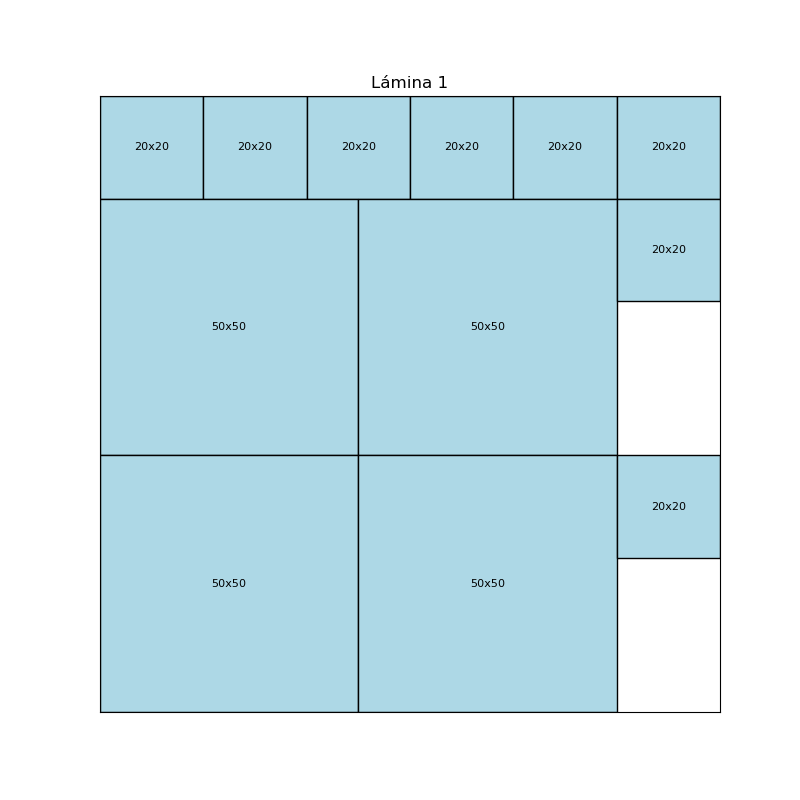
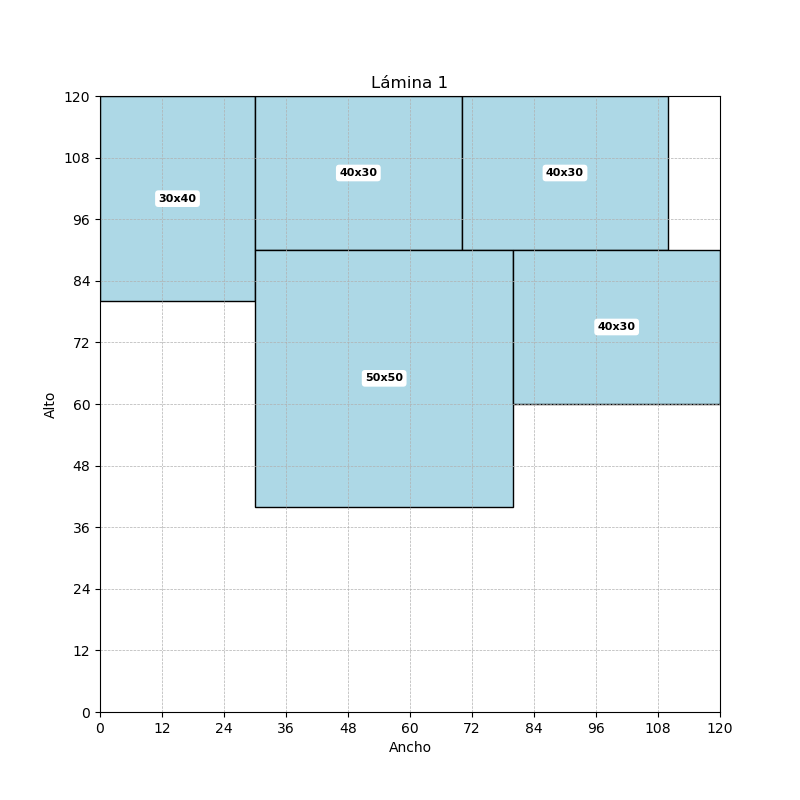
funcion cambiada a matriz

diff --git a/mine/versions/v2/Subject.py b/mine/versions/v2/Subject.py
@@ -3,7 +3,6 @@ import os
 import matplotlib.pyplot as plt
 import matplotlib.patches as patches
 import shutil
-import numpy as np
 
 class Subject:
     def __init__(self, plate_width, plate_height, pieces):
@@ -16,50 +15,44 @@ class Subject:
     def set_pieces(self, pieces):
         self.pieces = pieces
 
-    
-
     def place_pieces(self):
-        """Coloca las piezas en las láminas usando una matriz de ocupación de 1 y 0."""
-        self.plates_used = []  # Lista de láminas
-        plate_matrix = np.zeros((self.plate_height, self.plate_width), dtype=int)  # Matriz de ocupación de la primera lámina
-        current_plate = []  # Lista de piezas en la lámina actual
+        """
+        Coloca las piezas en el orden que aparecen, sin solapamientos.
+        """
+        self.plates_used = [[]]  # Primera lámina
+
+        x_actual = 0
+        y_actual = 0
+        altura_fila = 0
 
         for piece in self.pieces:
-            placed = False  # Bandera para verificar si la pieza fue colocada
+            pw, ph = piece.width, piece.height
 
-            # Buscar la primera posición libre donde quepa la pieza
-            for y in range(self.plate_height - piece.height + 1):
-                for x in range(self.plate_width - piece.width + 1):
-                    # Verificar si la pieza cabe en este espacio sin solaparse
-                    if np.all(plate_matrix[y:y + piece.height, x:x + piece.width] == 0):
-                        # Colocar la pieza en la lámina
-                        piece.x, piece.y = x, y
-                        piece.plate = len(self.plates_used) + 1  # Índice de la lámina
-                        current_plate.append(piece)
+            # Si la pieza no cabe en X, mover a la siguiente fila
+            if x_actual + pw > self.plate_width:
+                x_actual = 0
+                y_actual += altura_fila  # Mover hacia abajo
+                altura_fila = 0  # Reset de altura de fila
 
-                        # Marcar el espacio ocupado en la matriz
-                        plate_matrix[y:y + piece.height, x:x + piece.width] = 1
+            # Si la pieza no cabe en Y, usar nueva lámina
+            if y_actual + ph > self.plate_height:
+                self.plates_used.append([])  # Nueva lámina
+                x_actual = 0
+                y_actual = 0
+                altura_fila = 0
 
-                        placed = True
-                        break
-                if placed:
-                    break
+            # Colocar la pieza en la posición actual
+            piece.x = x_actual
+            piece.y = y_actual
+            piece.plate = len(self.plates_used) - 1  # Índice de la lámina
 
-            # Si la pieza no pudo colocarse, usar una nueva lámina
-            if not placed:
-                self.plates_used.append(current_plate)  # Guardar la lámina actual
-                plate_matrix = np.zeros((self.plate_height, self.plate_width), dtype=int)  # Nueva matriz vacía
-                current_plate = []  # Nueva lista de piezas
+            # self.pieces.append(piece)
+            self.plates_used[-1].append(piece)
 
-                # Intentar colocar la pieza en la nueva lámina
-                piece.x, piece.y = 0, 0  # Se reinicia la posición de colocación
-                piece.plate = len(self.plates_used) + 1
-                current_plate.append(piece)
-                plate_matrix[:piece.height, :piece.width] = 1  # Marcar la ocupación
-
-        # Agregar la última lámina utilizada
-        if current_plate:
-            self.plates_used.append(current_plate)
+            # Actualizar la posición para la siguiente pieza
+            x_actual += pw
+            altura_fila = max(altura_fila, ph)  # Mantener altura máxima de fila
+        self.get_fitness()
 
     def __repr__(self):
         result = ""

diff --git a/mine/versions/v2/GeneticAlgorithm.py b/mine/versions/v2/GeneticAlgorithm.py
@@ -142,7 +142,7 @@ lamina_base = (120, 120)
 piezas = [Piece(50, 50) for _ in range(10)] + [Piece(20, 20) for _ in range(10)] +  [Piece(30, 40) for _ in range(10)]
 
 # Crear algoritmo genético con 10 individuos y 50 generaciones
-ga = GeneticAlgorithm(population_size=20, n_generations=20, base_plate=lamina_base, pieces=piezas, crossover_rate=0.6, mutation_rate=0.5)
+ga = GeneticAlgorithm(population_size=50, n_generations=500, base_plate=lamina_base, pieces=piezas, crossover_rate=0.6, mutation_rate=0.5)
 
 ga.start()
 

diff --git a/mine/versions/v2/Piece.py b/mine/versions/v2/Piece.py
@@ -1,0 +1,12 @@
+class Piece:
+    def __init__(self, width, height):
+        self.x = 0  # Coordenada X en la lámina
+        self.y = 0  # Coordenada Y en la lámina
+        self.width = width
+        self.height = height
+        self.rotated = False  # Indica si la pieza ha sido rotada
+        self.plate = 0  # Índice de la lámina donde se coloca
+
+    def __repr__(self):
+        return f"({self.x},{self.y}) ({self.width}x{self.height})"
+    
